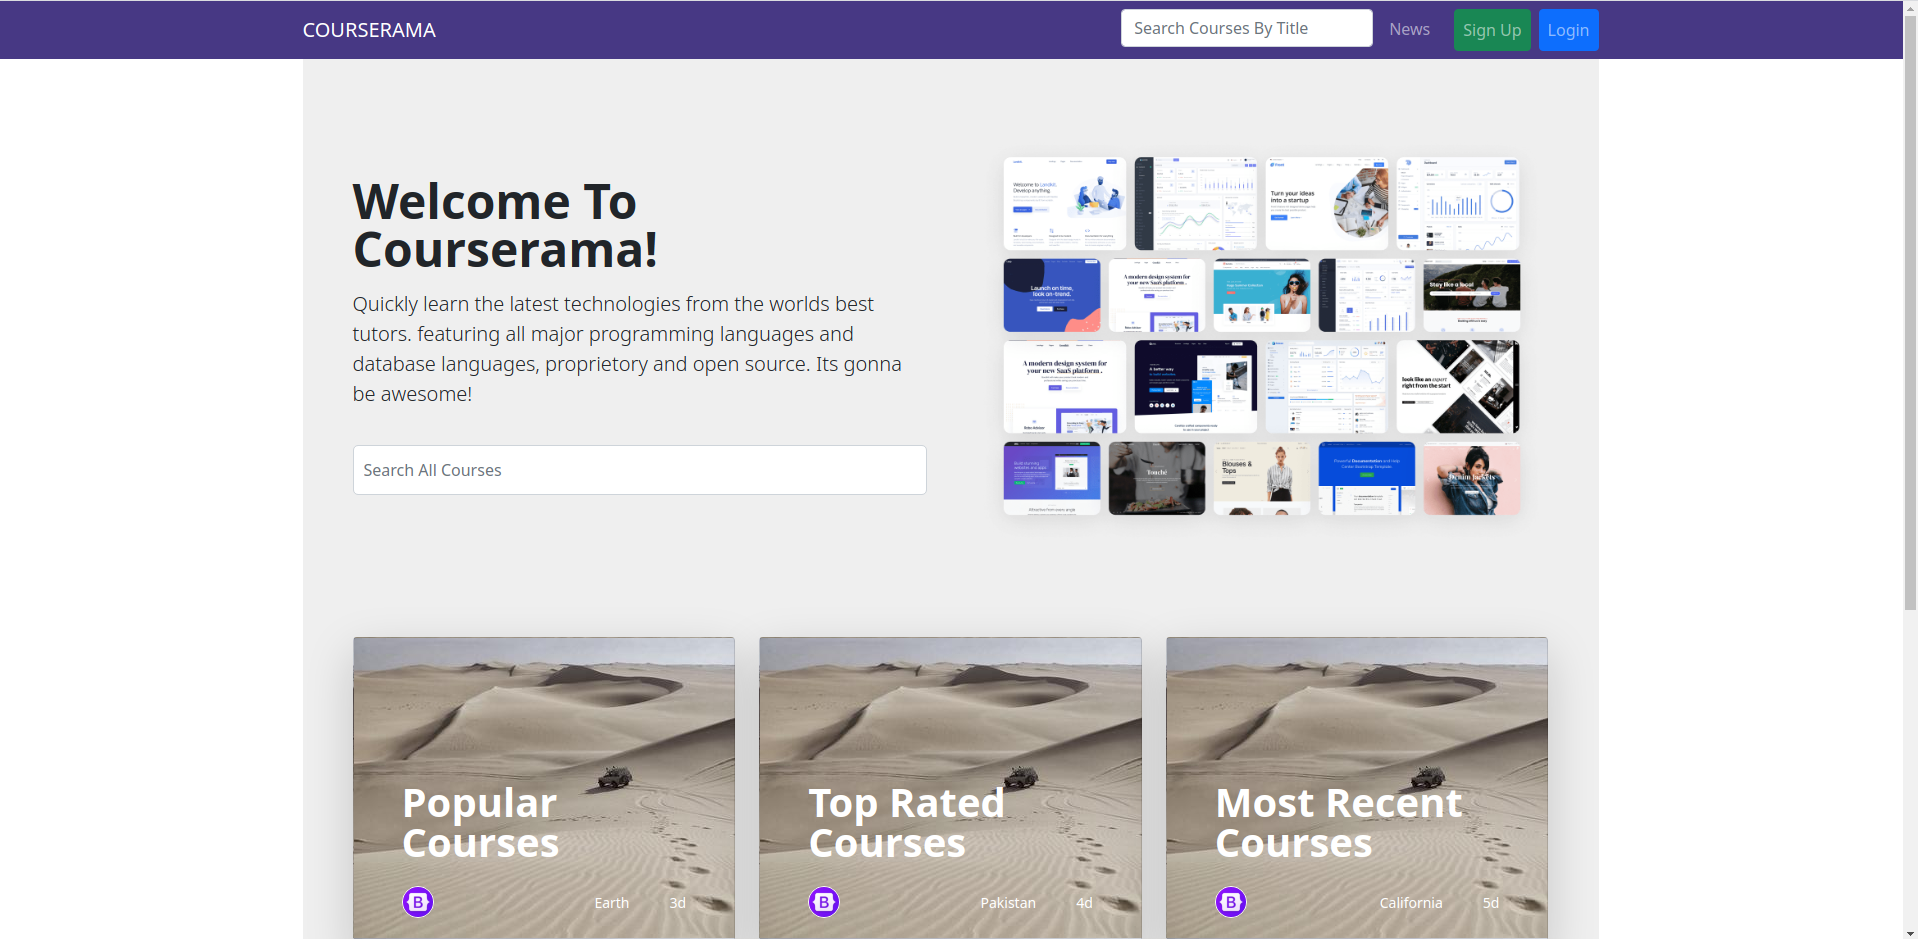
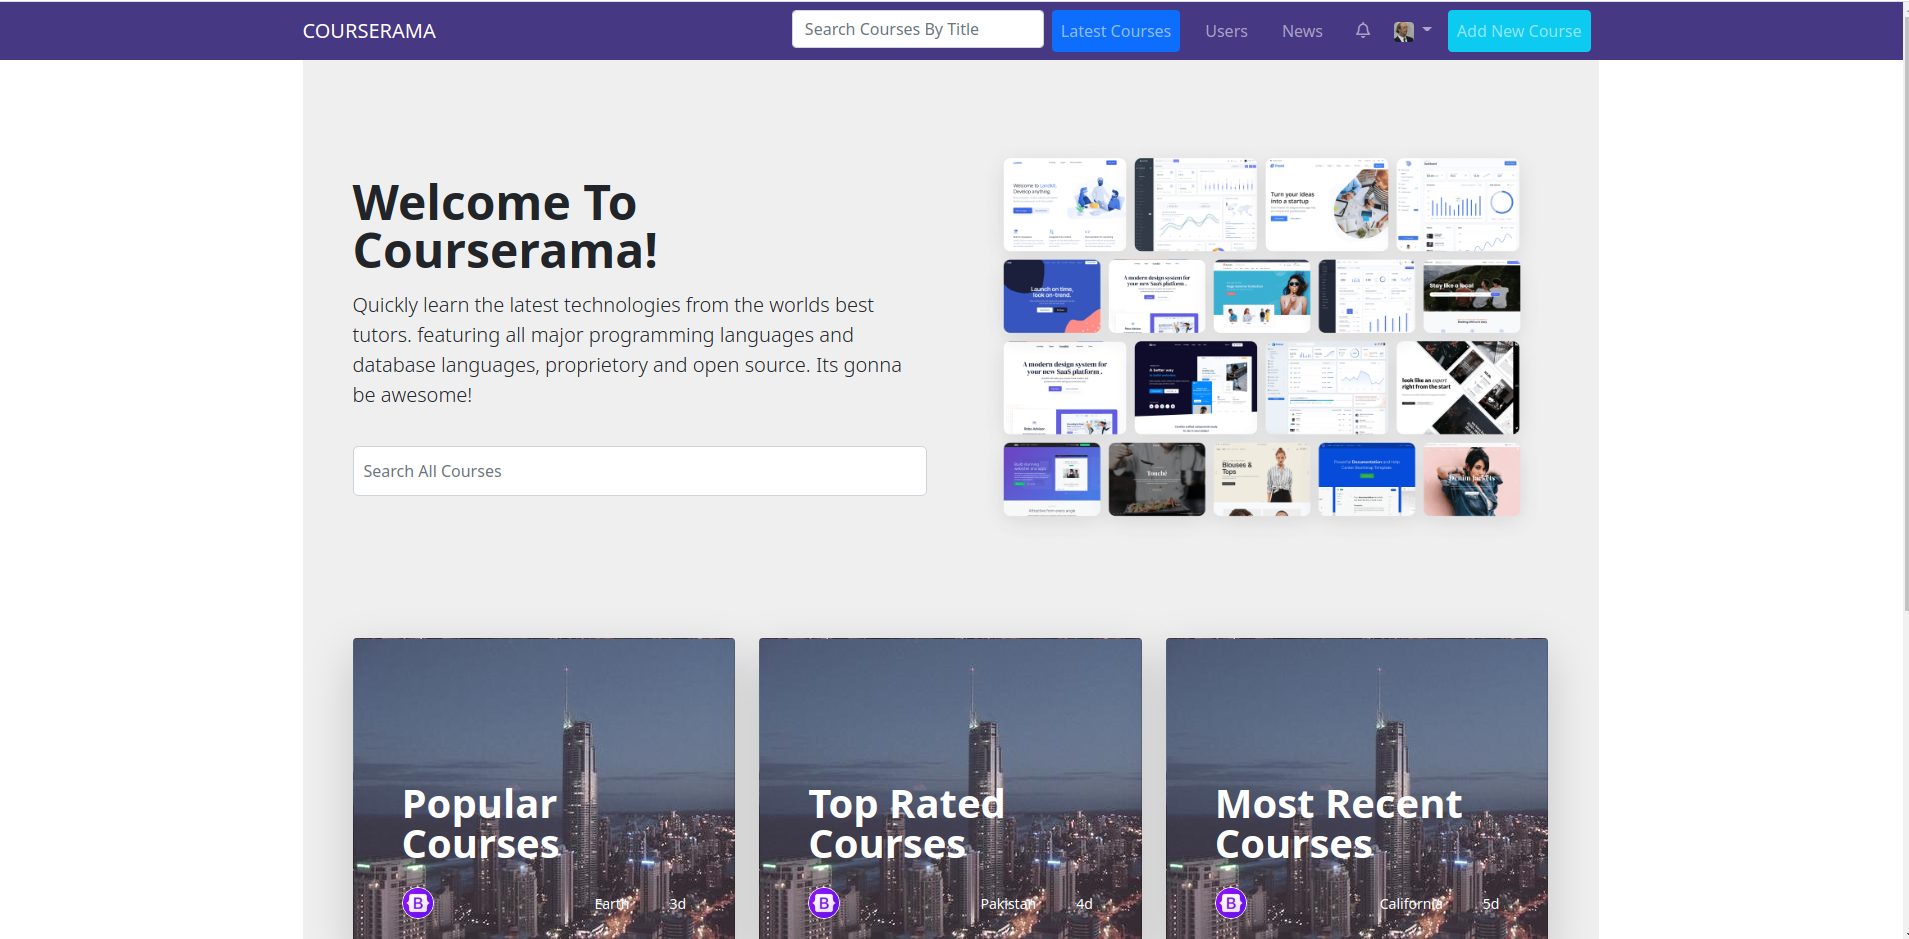
Devise

diff --git a/db/schema.rb b/db/schema.rb
@@ -10,7 +10,7 @@
 #
 # It's strongly recommended that you check this file into your version control system.
 
-ActiveRecord::Schema.define(version: 2021_07_10_154244) do
+ActiveRecord::Schema.define(version: 2021_07_13_121635) do
 
   # These are extensions that must be enabled in order to support this database
   enable_extension "plpgsql"
@@ -118,6 +118,11 @@ ActiveRecord::Schema.define(version: 2021_07_10_154244) do
     t.boolean "admin", default: false
     t.datetime "created_at", precision: 6, null: false
     t.datetime "updated_at", precision: 6, null: false
+    t.string "confirmation_token"
+    t.datetime "confirmed_at"
+    t.datetime "confirmation_sent_at"
+    t.string "unconfirmed_email"
+    t.index ["confirmation_token"], name: "index_users_on_confirmation_token", unique: true
     t.index ["email"], name: "index_users_on_email", unique: true
     t.index ["reset_password_token"], name: "index_users_on_reset_password_token", unique: true
   end

diff --git a/db/migrate/20210709073708_devise_create_users.rb b/db/migrate/20210709073708_devise_create_users.rb
@@ -22,10 +22,10 @@ class DeviseCreateUsers < ActiveRecord::Migration[6.0]
        t.inet     :last_sign_in_ip
 
       ## Confirmable
-      # t.string   :confirmation_token
-      # t.datetime :confirmed_at
-      # t.datetime :confirmation_sent_at
-      # t.string   :unconfirmed_email # Only if using reconfirmable
+       t.string   :confirmation_token
+       t.datetime :confirmed_at
+       t.datetime :confirmation_sent_at
+       t.string   :unconfirmed_email # Only if using reconfirmable
 
       ## Lockable
       # t.integer  :failed_attempts, default: 0, null: false # Only if lock strategy is :failed_attempts

diff --git a/app/models/user.rb b/app/models/user.rb
@@ -1,7 +1,7 @@
 class User < ApplicationRecord
   # Include default devise modules. Others available are:
   # :confirmable, :lockable, :timeoutable and :omniauthable
-  devise :masqueradable, :database_authenticatable, :registerable, :recoverable, :rememberable, :validatable, :omniauthable
+  devise :masqueradable, :confirmable, :database_authenticatable, :registerable, :recoverable, :rememberable, :validatable, :omniauthable
 
   has_one_attached :avatar
   has_person_name

diff --git a/db/migrate/20210713121635_add_confirm_to_devise.rb b/db/migrate/20210713121635_add_confirm_to_devise.rb
@@ -1,0 +1,11 @@
+class AddConfirmToDevise < ActiveRecord::Migration[6.0]
+  def change
+    add_column :users, :confirmation_token, :string
+    add_column :users, :confirmed_at, :datetime
+    add_column :users, :confirmation_sent_at, :datetime
+    add_column :users, :unconfirmed_email, :string
+    add_index :users, :confirmation_token, unique: true
+    User.update_all confirmed_at: DateTime.now
+
+  end
+end

diff --git a/app/controllers/courses_controller.rb b/app/controllers/courses_controller.rb
@@ -64,7 +64,7 @@ class CoursesController < ApplicationController
   end
     # Use callbacks to share common setup or constraints between actions.
     def set_course
-      @course = Course.find(params[:id])
+      @course = Course.friendly.find(params[:id])
     end
 
   private

diff --git a/config/routes.rb b/config/routes.rb
@@ -2,6 +2,7 @@ require 'sidekiq/web'
 
 Rails.application.routes.draw do
   resources :courses
+  resources :users,  only: [:index]
   get '/privacy', to: 'home#privacy'
   get '/terms', to: 'home#terms'
 authenticate :user, lambda { |u| u.admin? } do

diff --git a/app/models/course.rb b/app/models/course.rb
@@ -7,6 +7,13 @@ class Course < ApplicationRecord
         title
     end
     has_rich_text :description
+    extend FriendlyId
+    friendly_id :title
+    def to_s
+        slug
+    end
+
+    
 end
 
 

diff --git a/app/controllers/users_controller.rb b/app/controllers/users_controller.rb
@@ -1,0 +1,6 @@
+class UsersController < ApplicationController
+    # skip_before_action :authenticate_user!, :only => [:index]
+    def index
+    @users = User.all.order(created_at: :desc)
+    end
+end
